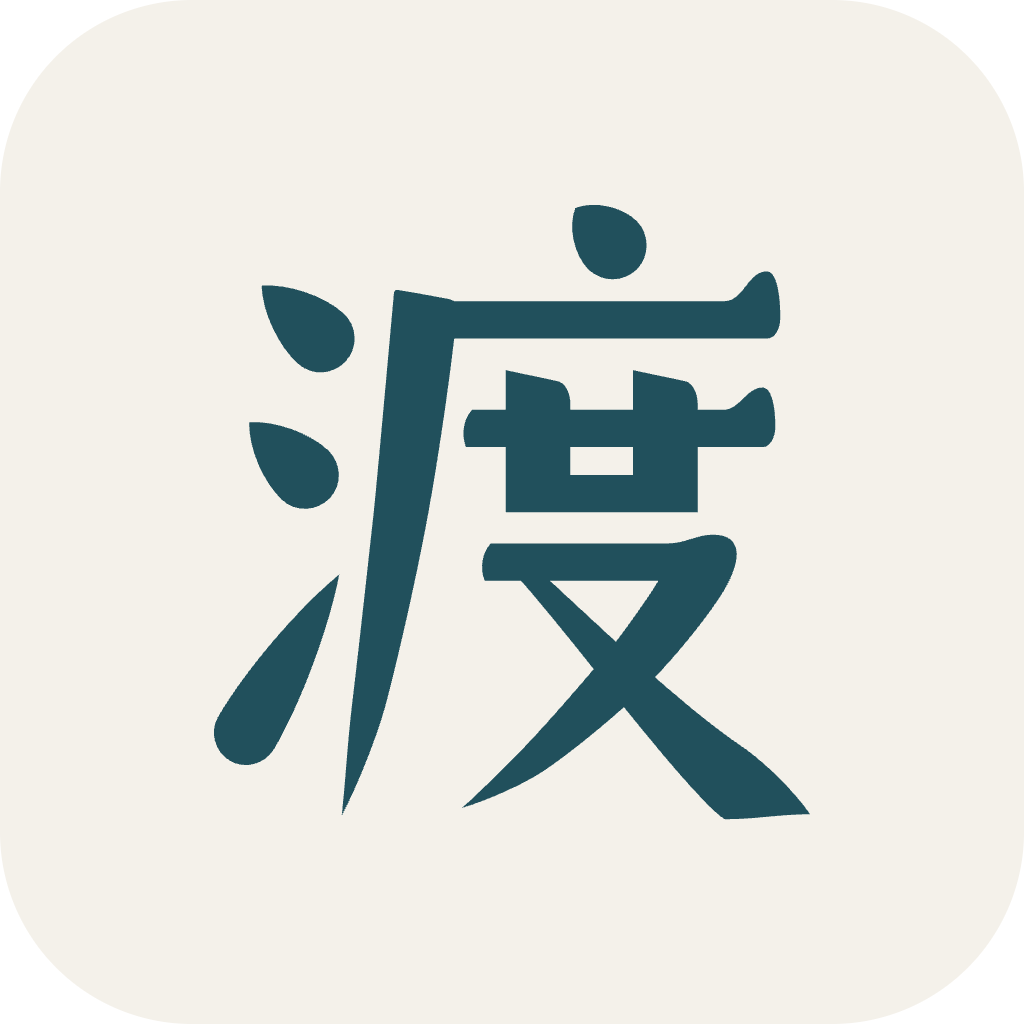
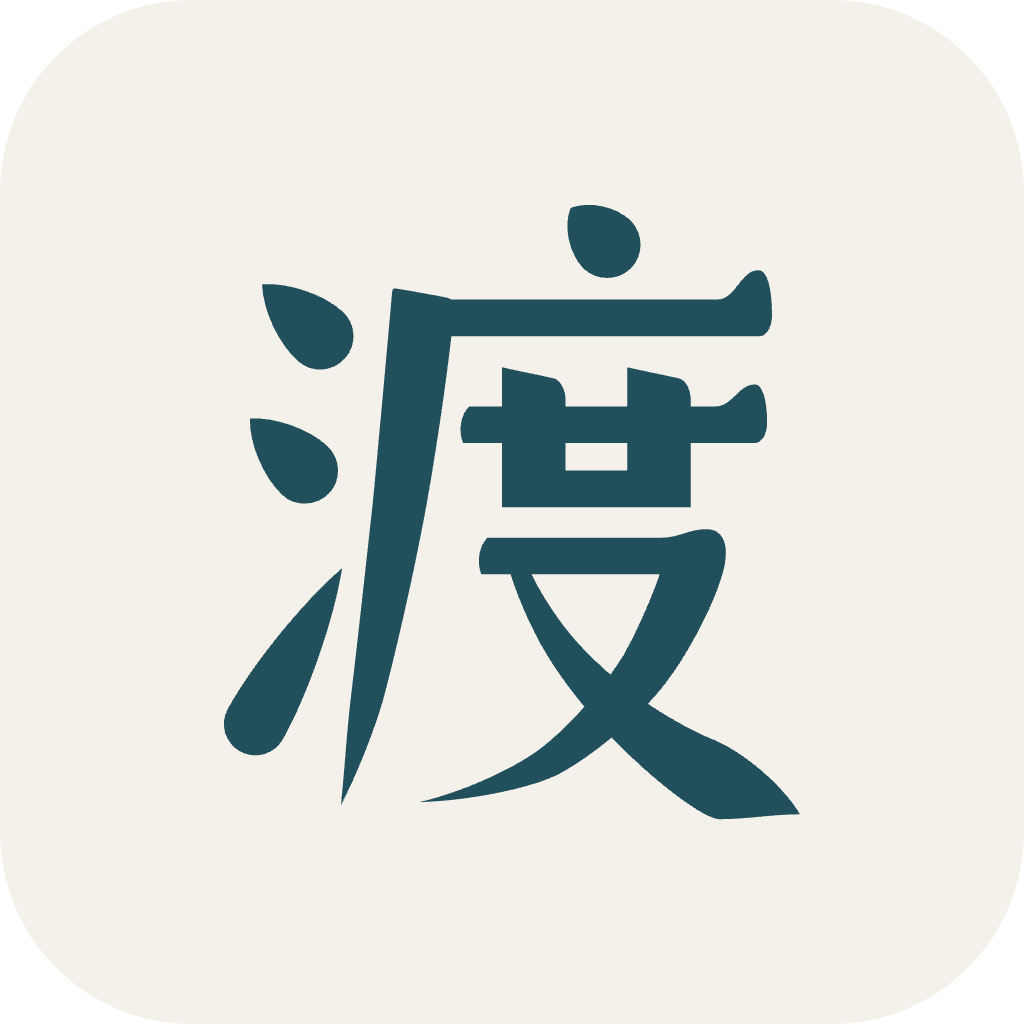
fix: 「又」的撇捺改成带弧度的宋体写法，捺脚收进字身
- 渡和又、汉、双、友里的「又」：撇先往下再向左下扫出去，捺先陡后平、尾巴拖长
- 捺脚会比终点再伸出 0.6～0.9 个笔宽，原来十几个字的捺脚伸出字身（最多 26 单位），
  人、木、人字头、大旁的终点往里收；氵、扌、纟的提和撇折往右挪，林、体、双的格子收窄
- 合的短横收短、全的王往下挪，避开收短后的捺
- 重新生成标志和封面

diff --git a/sample/index.html b/sample/index.html
@@ -6,7 +6,7 @@
 <title>渡言小样</title>
 <link rel="icon" href="../brand/icon.svg">
 <style>
-  @font-face { font-family: "Duyan Sample"; src: url("Duyan-Sample.otf?v=6") format("opentype"); }
+  @font-face { font-family: "Duyan Sample"; src: url("Duyan-Sample.otf?v=7") format("opentype"); }
   :root { --paper: #F4F1EA; --ink: #1D1C1A; --accent: #21505C; --muted: #6F6A60; --line: #DED8CC; --soft: #EBE7DD; }
   @media (prefers-color-scheme: dark) {
     :root:not([data-theme="light"]) { --paper: #171716; --ink: #ECE9E2; --accent: #7FB3BE; --muted: #A19C92; --line: #34322E; --soft: #201F1D; }

diff --git a/parts.py b/parts.py
@@ -122,13 +122,13 @@ def ren_left(m=ID, vt=640):
 def shui(m=ID):
     """氵"""
     return [D_(m, (85, 790), (180, 705), w=han.V * 1.05), D_(m, (65, 570), (155, 485), w=han.V * 1.05),
-            T_(m, (60, 70), (210, 325), w0=han.V)]
+            T_(m, (74, 70), (216, 325), w0=han.V)]
 
 
 def shou(m=ID):
     """扌"""
     return [H_(m, 40, 300, 590, beak=0.5), SG_(m, 170, 862, -40, dx=-86, dy=70),
-            T_(m, (44, 200), (310, 400), w0=han.V * 0.92)]
+            T_(m, (72, 200), (310, 400), w0=han.V * 0.92)]
 
 
 def yan_left(m=ID):
@@ -145,9 +145,9 @@ def xin_left(m=ID):
 
 def si_left(m=ID):
     """纟"""
-    return [piezhe(m.p((214, 870)), m.p((96, 660)), m.p((266, 708)), w=han.V * 0.74),   # 提的尖藏进第二笔的头里
-            piezhe(m.p((280, 706)), m.p((70, 330)), m.p((300, 430)), w=han.V * 0.78),
-            T_(m, (64, 110), (318, 290), w0=han.V * 0.9)]
+    return [piezhe(m.p((214, 870)), m.p((120, 660)), m.p((266, 708)), w=han.V * 0.74),   # 提的尖藏进第二笔的头里
+            piezhe(m.p((280, 706)), m.p((112, 330)), m.p((300, 430)), w=han.V * 0.78),
+            T_(m, (104, 110), (318, 290), w0=han.V * 0.9)]
 
 
 def fu_left(m=ID):
@@ -243,8 +243,9 @@ def gan(m=ID):
 
 def you(m=ID):
     """又"""
-    return [HP_(m, 140, 820, 740, (130, 10), bend=(-70, 0), w0=han.V),
-            N_(m, (290, 734), (900, -40), bend=(20, -10))]
+    # 撇先往下再向左下扫出去，捺先陡后平、尾巴拖长；捺脚收在字身里，不挤下一个字
+    return [HP_(m, 140, 820, 740, (100, -10), bend=(150, -70), w0=han.V),
+            N_(m, (290, 734), (815, -40), bend=(-100, -85), foot=0.75)]
 
 
 def cun(m=ID):
@@ -292,7 +293,7 @@ def mu(m=ID):
     """木"""
     return [H_(m, 80, 920, 620), S_(m, 500, 872, -70, top="head", end="dew"),
             P_(m, (480, 610), (90, 180), bend=(-20, -10), head="hid"),
-            N_(m, (520, 600), (900, 180), bend=(20, -10), wmax=han.V * 1.1)]
+            N_(m, (520, 600), (860, 180), bend=(20, -10), wmax=han.V * 1.1)]
 
 
 def ke(m=ID):
@@ -366,7 +367,7 @@ def ren(m=ID):
     """人"""
     start = on_pie(m.p((525, 840)), m.p((70, -50)), m.v((-20, -20)), m.y(540))
     return [P_(m, (525, 840), (70, -50), bend=(-20, -20), w0=han.V * 1.1),
-            na(start, m.p((850, -10)), m.v((30, -10)), wmax=han.V * 1.18 * (0.8 + 0.2 * m.k))]
+            na(start, m.p((806, -10)), m.v((30, -10)), wmax=han.V * 1.18 * (0.8 + 0.2 * m.k))]
 
 
 def da(m=ID):
@@ -431,7 +432,7 @@ def ren_top(m=ID):
     """人字头（今、会、合、全）：撇和捺张得很开。"""
     start = on_pie(m.p((500, 880)), m.p((80, 470)), m.v((-20, -10)), m.y(780))
     return [P_(m, (500, 880), (80, 470), bend=(-20, -10), w0=han.V * 1.04),
-            na(start, m.p((930, 470)), m.v((40, -10)), wmax=han.V * 1.1 * (0.8 + 0.2 * m.k))]
+            na(start, m.p((862, 470)), m.v((40, -10)), wmax=han.V * 1.1 * (0.8 + 0.2 * m.k))]
 
 
 def zou(m=ID):
@@ -440,4 +441,4 @@ def zou(m=ID):
     return [D_(m, (150, 836), (226, 740), w=han.V * 1.0),
             hengzhezhepie(m.x(56), m.x(250), m.y(590), m.p((70, 420)), m.x(244), m.p((62, 176)),
                           w0=han.V * 0.8, w2=han.V * 0.86, bend2=m.v((-10, 10))),
-            na(m.p((88, 212)), m.p((946, -40)), m.v((-150, -110)), wmax=han.V * 1.12, w0=34, foot=0.42, start="tip")]
+            na(m.p((88, 212)), m.p((932, -40)), m.v((-150, -110)), wmax=han.V * 1.12, w0=34, foot=0.42, start="tip")]

diff --git a/han.py b/han.py
@@ -643,7 +643,7 @@ def c_yong():                  # 永
             hengzhegou(300, 592, 650, 50, dx=-130, dy=86),
             hengpie(110, 404, 490, (70, 110), bend=(-20, 10), w0=V),
             pie((830, 640), (560, 420), w0=V * .98),
-            na((555, 470), (860, 20), bend=(20, -10), wmax=V * 1.25)]
+            na((555, 470), (850, 20), bend=(20, -10), wmax=V * 1.25)]
 
 
 def c_zi():                    # 字
@@ -663,12 +663,13 @@ def c_mei():                   # 美
 
 def c_du():                    # 渡
     return [dian((85, 790), (180, 705), w=V * 1.05), dian((65, 570), (155, 485), w=V * 1.05),
-            ti((60, 70), (210, 325), w0=V),
+            ti((74, 70), (216, 325), w0=V),
             dian((590, 915), (650, 855), w=V * 1.05), heng(362, 920, 735, entry=None),
             pie((350, 770), (215, -60), bend=(-15, -10), w0=V),
             heng(410, 912, 560, beak=0.8), nian_u(530, 735, 638, 455),
-            hengpie(440, 844, 345, (410, -50), bend=(-50, -10), w0=V * .95),
-            na((500, 340), (860, -20), bend=(10, -10), wmax=V * 1.15)]
+            # 又：撇先往下再向左下扫出去，捺先陡后平、尾巴拖长，两笔都带弧度，不是直直的一个叉
+            hengpie(440, 844, 345, (345, -58), bend=(90, -40), w0=V * .95),
+            na((500, 340), (850, -28), bend=(-60, -50), wmax=V * 1.2, foot=0.75)]
 
 
 def capsule(p0, p1, w0, w1, w2, bend=(0, 0)):

diff --git a/chars.py b/chars.py
@@ -112,11 +112,11 @@ def c_ge():                    # 个
 
 
 def c_he_close():              # 合
-    return ren_top() + [heng(310, 690, 470, beak=0.6)] + KOU_(ID, 270, 730, 310, -30)
+    return ren_top() + [heng(316, 668, 470, beak=0.6)] + KOU_(ID, 270, 730, 310, -30)
 
 
 def c_quan():                  # 全
-    return ren_top() + wang(into((140, -70, 860, 590)))
+    return ren_top() + wang(into((150, -70, 850, 566)))
 
 
 def c_hui():                   # 会
@@ -162,7 +162,7 @@ def c_shen_what():             # 什
 
 
 def c_ti():                    # 体
-    return lr(ren_left, ben, (310, -70, 945, 880), 0.9)
+    return lr(ren_left, ben, (310, -70, 930, 880), 0.9)
 
 
 def c_jiang():                 # 江
@@ -212,7 +212,7 @@ def c_shi_time():              # 时
 
 
 def c_lin():                   # 林
-    return lr(mu_left, mu, (370, -70, 945, 880), 0.9)
+    return lr(mu_left, mu, (370, -70, 925, 880), 0.9)
 
 
 def c_cun():                   # 村
@@ -272,7 +272,7 @@ def c_dui():                   # 对
 
 
 def c_shuang():                # 双
-    return lr(you_left, you, (390, -60, 945, 800))
+    return lr(you_left, you, (390, -60, 940, 800))
 
 
 # ───────── 上下、半包围 ─────────
